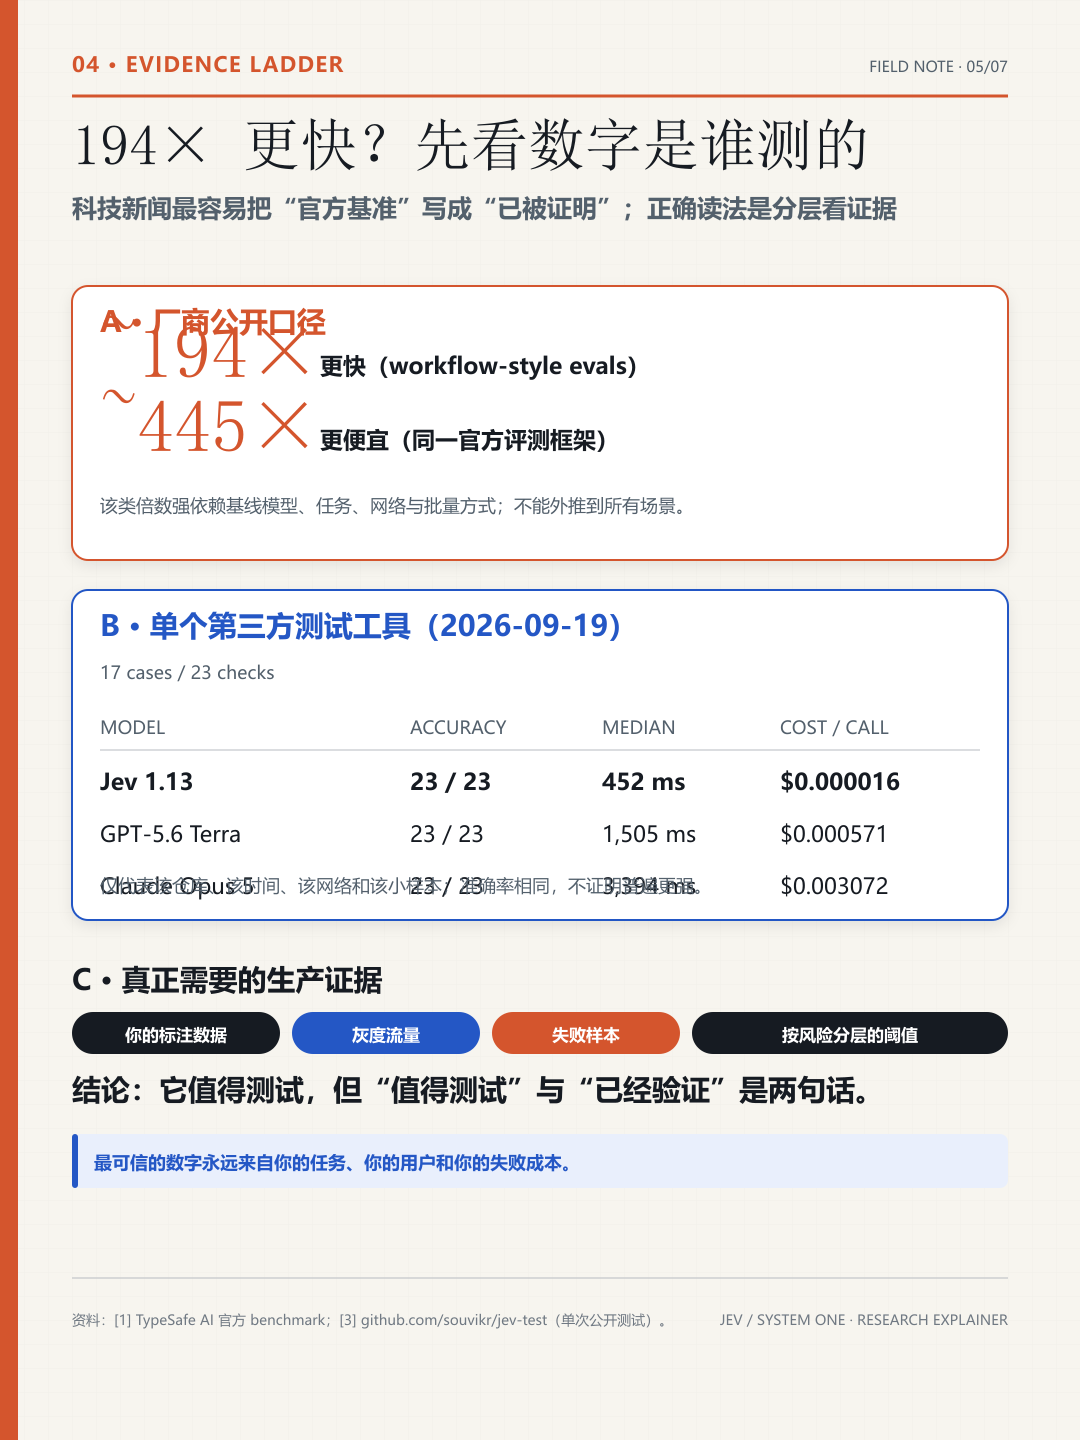
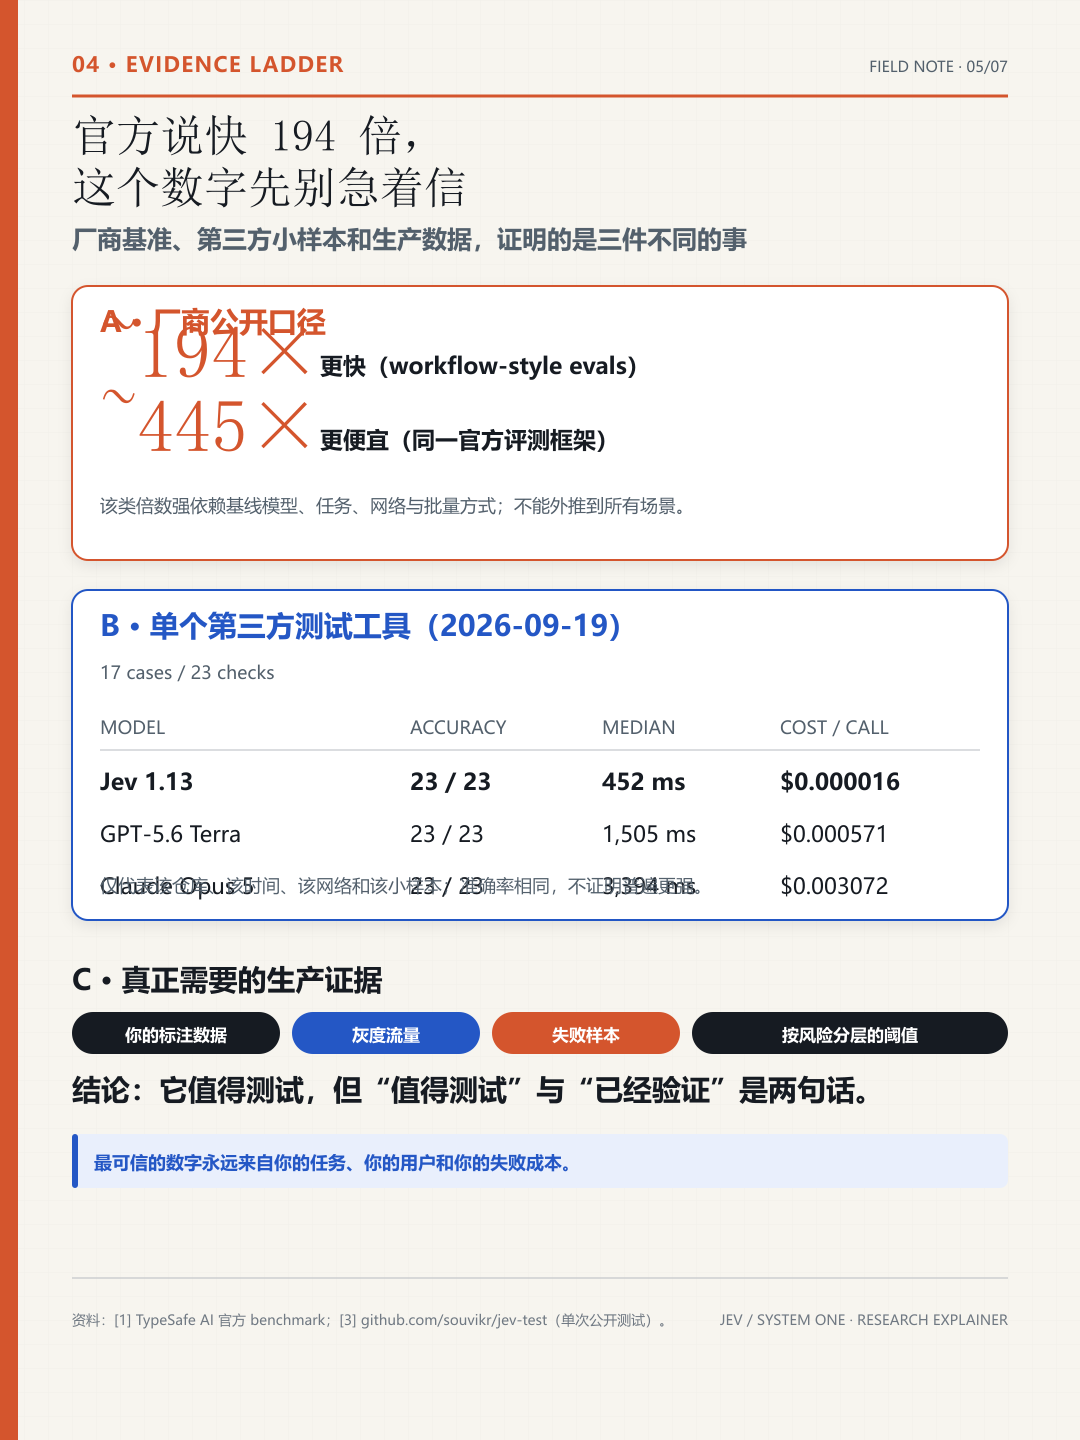
feat: sharpen Jev and Muse editorial hooks

Changed region(s): [[0.0611, 0.0625, 0.825, 0.1875]]

diff --git a/public/pilots/muse-carousel-v1/copy.md b/public/pilots/muse-carousel-v1/copy.md
@@ -2,21 +2,21 @@
 
 ## 标题
 
-Meta把AI从聊天框里放出来了
+Meta的新AI不陪聊，它开始替你下单
 
 ## 作品描述
 
-Meta 这次发布的，不是又一个陪你聊天的 AI。
+Meta 这次发布的，不是又一个陪你聊天的 AI。Muse 会自己打开网站、填表、发邮件、安排行程，甚至把购物推进到确认之前。
 
-Muse 可以在自己的安全虚拟电脑里打开网站、填写表单、发送邮件、安排旅行，甚至推进购物。任务需要很久时，它可以继续工作；到了发送、购买这类关键步骤，再回来找你确认。
+真正值得注意的是：它不是在对话框里“教你怎么做”，而是在一台隔离的虚拟电脑里替你一步步做。任务耗时很久也能继续推进，到了发送、购买等关键动作，再回来找你确认。
 
-这意味着 AI 的竞争重点正在变化：以前比谁回答得更好，现在开始比谁能拿到入口、记住长期目标、连接真实应用，并把一件事可靠地做完。
+但 Muse 上线后不久，Amazon 就阻止它浏览和代购。表面上是访问、安全和数据规则，底层却是一场入口争夺：如果用户以后先把需求交给 AI，谁还会先打开购物 App？
 
-更值得关注的是权限。读网页、读邮件、修改日程、发送消息、付款和公开发布，不应该拥有同一等级的授权。真正能长期使用的个人 Agent，必须让过程看得见、动作可暂停、权限可撤销、结果有回执。
+这也把个人 Agent 最大的问题推到台前：读网页、读邮件、改日程、发消息、付款和公开发布，绝不能共用同一级权限。真正能长期使用的 Agent，必须让过程看得见、动作可暂停、权限可撤销、结果有回执。
 
 GitHub 上的 OpenMuse 已经把其中一部分工程思路开源：持久浏览器、任务计划、审批和操作记录。它不是 Meta Muse 的源码，却是理解“个人 Agent 应该怎么做”的好参考。
 
-这组图会把 Muse 的能力、架构、权限阶梯和平台入口之争一次讲清楚。
+这组图讲清楚：Muse 能做什么、Amazon 为什么拦它、权限怎么分层，以及 OpenAI、Google、Meta 真正争夺的是什么。
 
 ## 话题
 
@@ -29,8 +29,7 @@ GitHub 上的 OpenMuse 已经把其中一部分工程思路开源：持久浏览
 
 ## 传播结构
 
-- 已知主体：Meta
-- 明确变化：AI 从回答问题变成执行任务
-- 用户后果：入口、权限、记忆和支付开始被重新分配
-- 开放问题：你愿意把多少权限交给个人 Agent
-
+- Hook 类型：已知主体 + 冲突反差
+- 核心变量：Meta 的执行型 AI 与 Amazon 的平台阻断
+- 测试假设：把“替你下单”和“平台关门”前置，比抽象的 Agent 入口叙事更容易让普通用户停留
+- 风险边界：不写成 Muse 已完成真实购买，不把 OpenMuse 写成 Meta 官方源码

diff --git a/public/pilots/jev-carousel-v3/copy.md b/public/pilots/jev-carousel-v3/copy.md
@@ -2,19 +2,19 @@
 
 ## 标题
 
-硅谷热议JEV：AI不聊天，只拍板
+大模型越聪明，为什么还需要一个“只会拍板”的AI？
 
 ## 作品描述
 
-大模型接下来的变化，不一定只是继续变大，而是开始分工。
+大模型已经会写代码、做研究、规划任务，但真正接进业务时，最容易出问题的往往不是“不会想”，而是“下一步到底该不该做”。
 
-最近 AI 圈热议的 JEV 很特别：它不负责聊天，也不负责写长文。你给它一份业务状态，它只用 Choice、Score、Noul 三种结构回答——该选哪个、风险有多高、这件事是不是成立。
+JEV 做的事看起来很窄：不聊天、不写长文，只回答三类问题——该选哪个、风险有多高、这件事成立的概率是多少。它把大模型最常见、也最危险的“小决定”，变成代码能直接检查的结构化结果。
 
-这听起来不性感，却可能正是 Agent 缺的那一层。客服工单该分给谁、内容是否需要复核、风险是否超过阈值、下一步该调用哪个工具，这些高频、重复、边界明确的小决定，未必每次都要交给最贵的大模型。
+这可能是 Agent 真正缺的一层。客服工单交给谁、内容要不要复核、风险是否越线、下一步调用哪个工具——这些高频、重复、边界明确的判断，未必每次都要请一个昂贵的大模型重新“写一篇答案”。
 
-但要注意：格式稳定，不代表判断永远正确。真实业务仍然需要自己的标注数据、阈值、失败样本和人工兜底。JEV 负责给出信号，代码和人负责承担后果。
+但“输出整齐”绝不等于“判断正确”。真正上线前，仍要用自己的数据校准阈值，把低信心和高风险动作交回人工。JEV 只给信号，代码决定是否执行，人承担最终后果。
 
-这组图把它的三种判断、适用场景、工程边界，以及 GitHub 上可参考的接入层和开放复现拆开讲清楚。
+这组图讲清楚：JEV 到底是什么、为什么突然被讨论、三种判断如何接进客服/私域/风控，以及 GitHub 上哪些项目是接入层、哪些只是社区复现。
 
 ## 话题
 
@@ -29,8 +29,7 @@
 
 ## 传播结构
 
-- 已知场域：硅谷 / AI Agent
-- 认知反差：不聊天、不写作，只做决定
-- 实际收益：把高频小判断从昂贵大模型调用中拆出来
-- 风险边界：固定结构不等于永远正确
-
+- Hook 类型：反常识断言
+- 核心变量：大模型“会想”与系统“敢执行”的冲突
+- 测试假设：先讲用户熟悉的大模型，再揭示 JEV，比直接把陌生缩写放在标题里更容易停留
+- 风险边界：不把厂商基准写成独立结论，不把社区项目写成官方开源模型
